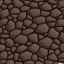
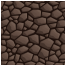
updated textures

diff --git a/arcadeGame/sketch.js b/arcadeGame/sketch.js
@@ -442,9 +442,9 @@ let gameAssets = false;
 // SYSTEM RESERVED FUNCTIONS
 function preload(){
   playerImg = loadImage("./img/player-02.png");
-  unbreakableTexture = loadImage("./img/obsidian-ai2.png");
-  dirtTexture = loadImage("./img/dark-dirt-ai.png");
-  stoneTexture = loadImage("./img/stone-04.png");
+  unbreakableTexture = loadImage("./img/asset-07.png");
+  dirtTexture = loadImage("./img/asset-06.png");
+  stoneTexture = loadImage("./img/asset-04.png");
   airTexture = loadImage("./img/air.png");
   dollazImage = loadImage("./img/dollaz.png");
   mo_dollazImage = loadImage("./img/mo_dollaz.png")
